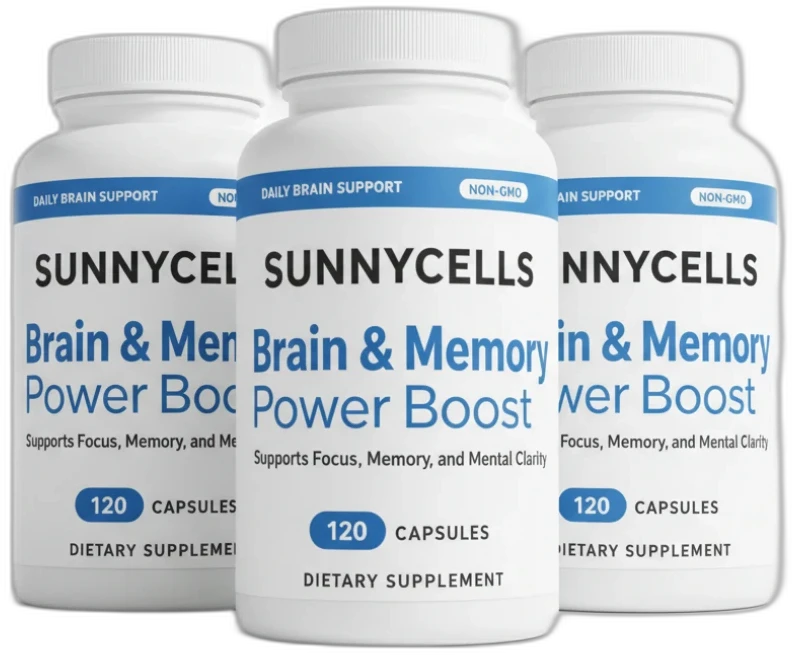
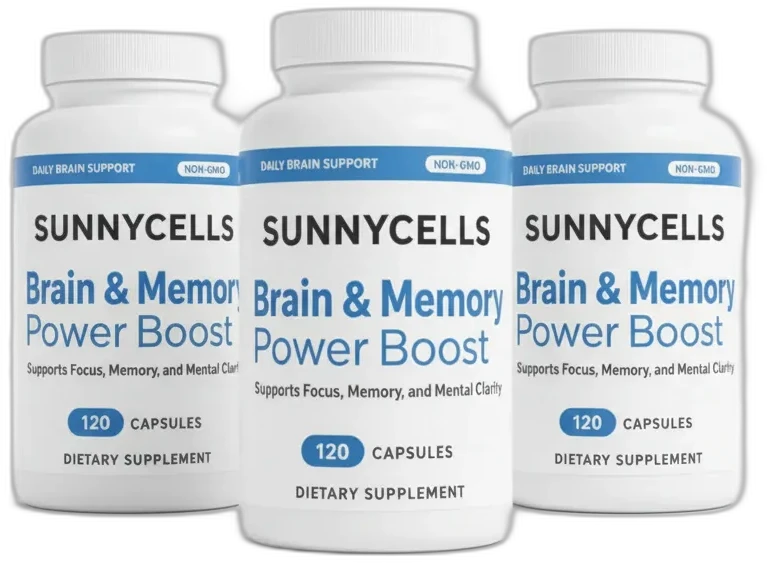
Polish v3's recommendation band and plan card to match the reference's aesthetic
- Concern tags are now soft pill outlines (low-alpha tinted fill, full-
  strength border and text) instead of loud solid Badge blocks, closer
  to the muted look of the reference.
- "Our recommendation" badge gets pill corners instead of the system's
  sharp Badge default.
- The brain age comparison card gets a lifted shadow instead of sitting
  flat on the ink background.
- Fixed a real double-border bug on the featured plan card: the outer
  zest wrapper and PlanCard's own border were both drawing, 2px apart,
  reading as a stray ring rather than a frame. Now one continuous
  border and shadow around the banner and card together (PlanCard
  takes a new `bordered` prop, off only for this case).
- The featured card's CTA is now the brand's green (sprout) fill,
  tying it to the green "3 months" and green checkmarks already on
  the same card, instead of plain black.
- Replaced the 3-bottle bundle photo: the old one had the two outer
  bottles cropped at the frame edge (mid-label), visible as clipped
  text in the card. New version keeps all three bottles fully in frame.

v2's plans page (layout="grid") is unaffected: the new bordered/big
props default to preserve its exact existing look.

Claude-Session: https://claude.ai/code/session_01CCaTNScmfGnSeoinmpTaAH

diff --git a/components/brain-quiz/BrainPlanCards.tsx b/components/brain-quiz/BrainPlanCards.tsx
@@ -14,10 +14,14 @@ import { readAnswers, writeAnswer } from "@/lib/quiz/store";
 import { trackMetaEvent } from "@/lib/meta";
 
 function PlanCard({
-  p, big = false, hover, onHover, ctaLabel, onChoose,
+  p, big = false, bordered = true, hover, onHover, ctaLabel, onChoose,
 }: {
   p: Plan;
   big?: boolean;
+  /** Off for the featured big card: its own wrapper in BrainPlanCards already
+      draws one continuous border and banner around it, and a second border
+      here just drew a stray ring with a gap between the two. */
+  bordered?: boolean;
   hover: string;
   onHover: (id: string) => void;
   ctaLabel: string;
@@ -33,15 +37,15 @@ function PlanCard({
         display: "flex",
         flexDirection: "column",
         gap: "var(--space-4)",
-        padding: "var(--space-6) var(--space-5) var(--space-5)",
+        padding: big ? "var(--space-7) var(--space-6) var(--space-6)" : "var(--space-6) var(--space-5) var(--space-5)",
         background: on ? "var(--sky-tint)" : "var(--white)",
         /* However dark the page around it gets (the v3 offer band's own ink
            background, say), this card is always its own light surface, so its
            text needs its own colour rather than inheriting white off a page
            that has gone dark around it. */
         color: "var(--ink)",
-        border: `2px solid ${on ? "var(--ink)" : "var(--border-hairline)"}`,
-        borderRadius: "var(--radius-card)",
+        border: bordered ? `2px solid ${on ? "var(--ink)" : "var(--border-hairline)"}` : undefined,
+        borderRadius: bordered ? "var(--radius-card)" : undefined,
         transition: "background var(--duration-fast) var(--ease-standard)",
       }}
     >
@@ -110,7 +114,10 @@ function PlanCard({
       </ul>
 
       <div style={{ marginTop: "auto", paddingTop: "var(--space-3)" }}>
-        <Button fullWidth variant={p.best ? "primary" : "outline"} onClick={() => onChoose(p)}>
+        {/* The featured big card gets the brand's green fill, tying it to the
+            green "3 months" and green checkmarks already on this same card,
+            rather than the plain black every other plan button uses. */}
+        <Button fullWidth variant={big ? "sprout" : p.best ? "primary" : "outline"} onClick={() => onChoose(p)}>
           {ctaLabel}
         </Button>
         <div style={{ marginTop: "var(--space-3)", textAlign: "center", fontSize: "var(--size-meta)", color: "var(--ink-60)" }}>
@@ -185,23 +192,34 @@ export function BrainPlanCards({
 
     return (
       <div style={{ maxWidth: 420, margin: "0 auto" }}>
+        {/* One continuous border and shadow around the banner and the card
+            together, rather than a border on each: two borders with a gap
+            between them read as a layout glitch, not a frame. overflow:hidden
+            is what lets the banner's square top corners sit flush inside the
+            card's own rounded ones. */}
         <div
           style={{
-            textAlign: "center",
-            background: "var(--zest)",
-            color: "var(--white)",
-            fontSize: "var(--size-meta)",
-            fontWeight: 700,
-            letterSpacing: "var(--tracking-caps)",
-            textTransform: "uppercase",
-            padding: "var(--space-3)",
-            borderRadius: "var(--radius-card) var(--radius-card) 0 0",
+            border: "2px solid var(--zest)",
+            borderRadius: "var(--radius-card)",
+            overflow: "hidden",
+            boxShadow: "0 24px 48px rgba(0,0,0,0.4)",
           }}
         >
-          Your recommended plan
-        </div>
-        <div style={{ border: "2px solid var(--zest)", borderTop: "none", borderRadius: "0 0 var(--radius-card) var(--radius-card)", padding: 2 }}>
-          <PlanCard p={best} big hover={hover} onHover={setHover} ctaLabel={ctaLabel} onChoose={choose} />
+          <div
+            style={{
+              textAlign: "center",
+              background: "var(--zest)",
+              color: "var(--white)",
+              fontSize: "var(--size-meta)",
+              fontWeight: 700,
+              letterSpacing: "var(--tracking-caps)",
+              textTransform: "uppercase",
+              padding: "var(--space-3)",
+            }}
+          >
+            Your recommended plan
+          </div>
+          <PlanCard p={best} big bordered={false} hover={hover} onHover={setHover} ctaLabel={ctaLabel} onChoose={choose} />
         </div>
 
         {rest.length > 0 ? (

diff --git a/components/brain-quiz/v3/BrainV3OfferBand.tsx b/components/brain-quiz/v3/BrainV3OfferBand.tsx
@@ -15,8 +15,39 @@ import { useAnswers } from "@/lib/quiz/store";
  * about a diagnosis that was never actually made.
  */
 /* Rotated through the tags in order, so the band reads as a spread of distinct
-   findings rather than one repeated colour. */
-const TAG_TONES = ["zest", "sky", "sprout", "error"] as const;
+   findings rather than one repeated colour. Each is the brand's own hex, split
+   into a low-alpha fill and a full-strength border/text, since the token sheet
+   only ships light tints (built for a white surface) and full-strength solids
+   (too loud at this size) — nothing muted enough to sit quietly on ink. */
+const TAGS = [
+  { fill: "rgba(255,122,26,0.16)", ring: "rgba(255,122,26,0.55)", text: "#FF9D52" },
+  { fill: "rgba(140,176,232,0.18)", ring: "rgba(140,176,232,0.55)", text: "#AEC7EF" },
+  { fill: "rgba(121,196,126,0.18)", ring: "rgba(121,196,126,0.55)", text: "#9CD8A0" },
+  { fill: "rgba(179,45,24,0.18)", ring: "rgba(179,45,24,0.55)", text: "#E5876F" },
+] as const;
+
+function Tag({ children, tone }: { children: ReactNode; tone: (typeof TAGS)[number] }) {
+  return (
+    <span
+      style={{
+        display: "inline-flex",
+        alignItems: "center",
+        height: 34,
+        padding: "0 16px",
+        background: tone.fill,
+        border: `1px solid ${tone.ring}`,
+        borderRadius: "var(--radius-pill)",
+        color: tone.text,
+        fontFamily: "var(--font-text)",
+        fontSize: "var(--size-meta)",
+        fontWeight: 600,
+        whiteSpace: "nowrap",
+      }}
+    >
+      {children}
+    </span>
+  );
+}
 
 export function BrainV3OfferBand({ planCard }: { planCard?: ReactNode }) {
   const { answers, ready } = useAnswers(brainV3Quiz.id);
@@ -44,7 +75,7 @@ export function BrainV3OfferBand({ planCard }: { planCard?: ReactNode }) {
         }}
       >
         <div>
-          <Badge tone="zest">Our recommendation</Badge>
+          <Badge tone="zest" style={{ borderRadius: "var(--radius-pill)" }}>Our recommendation</Badge>
 
           <h1
             style={{
@@ -59,9 +90,9 @@ export function BrainV3OfferBand({ planCard }: { planCard?: ReactNode }) {
             Your plan is ready. It needs <span style={{ color: "var(--sprout)" }}>3 months</span> to work.
           </h1>
 
-          <div style={{ display: "flex", flexWrap: "wrap", gap: "var(--space-2)", marginBottom: "var(--space-6)" }}>
+          <div style={{ display: "flex", flexWrap: "wrap", gap: "var(--space-3)", marginBottom: "var(--space-7)" }}>
             {tags.map((t, i) => (
-              <Badge key={t} tone={TAG_TONES[i % TAG_TONES.length]}>{t}</Badge>
+              <Tag key={t} tone={TAGS[i % TAGS.length]}>{t}</Tag>
             ))}
           </div>
 
@@ -73,9 +104,9 @@ export function BrainV3OfferBand({ planCard }: { planCard?: ReactNode }) {
               gap: "var(--space-5)",
               background: "var(--white)",
               color: "var(--ink)",
-              border: "1px solid var(--border-hairline)",
               borderRadius: "var(--radius-xl)",
               padding: "var(--space-5) var(--space-6)",
+              boxShadow: "0 20px 40px rgba(0,0,0,0.35)",
             }}
           >
             <div>
